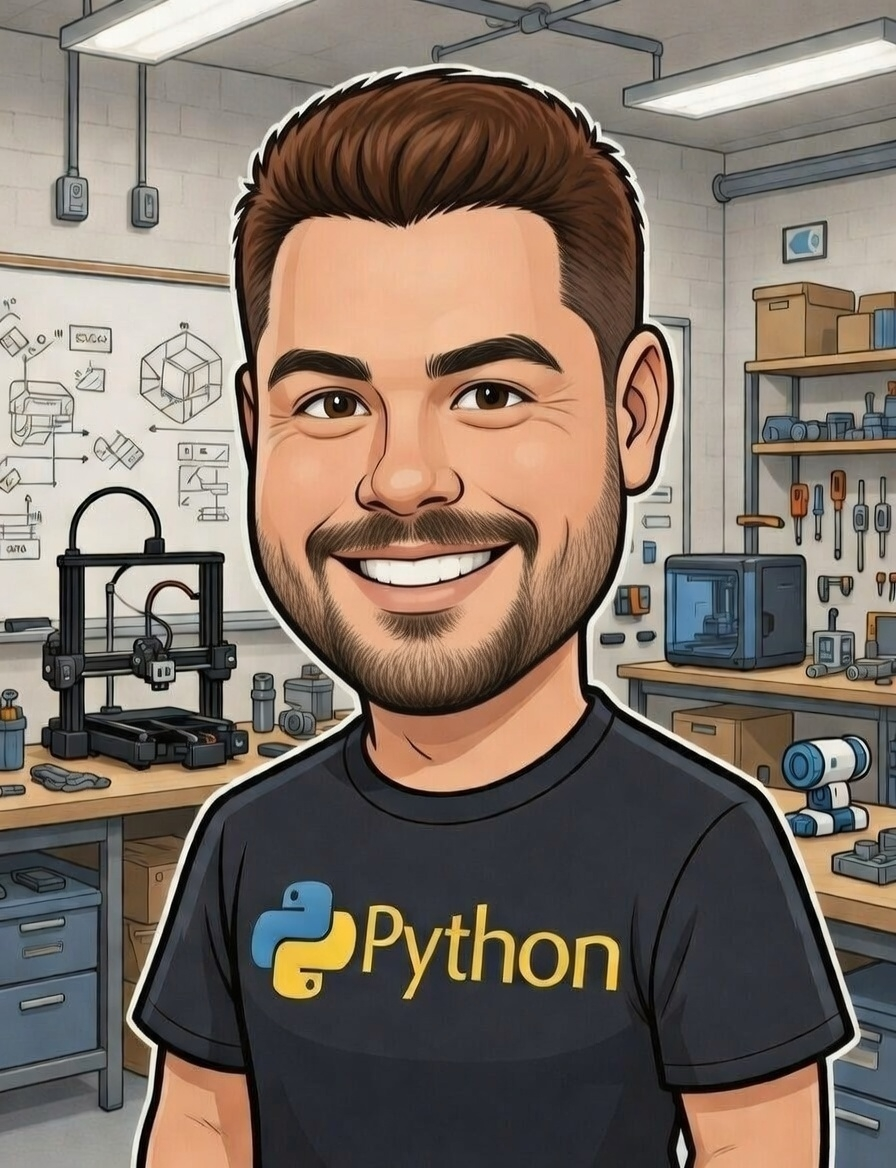
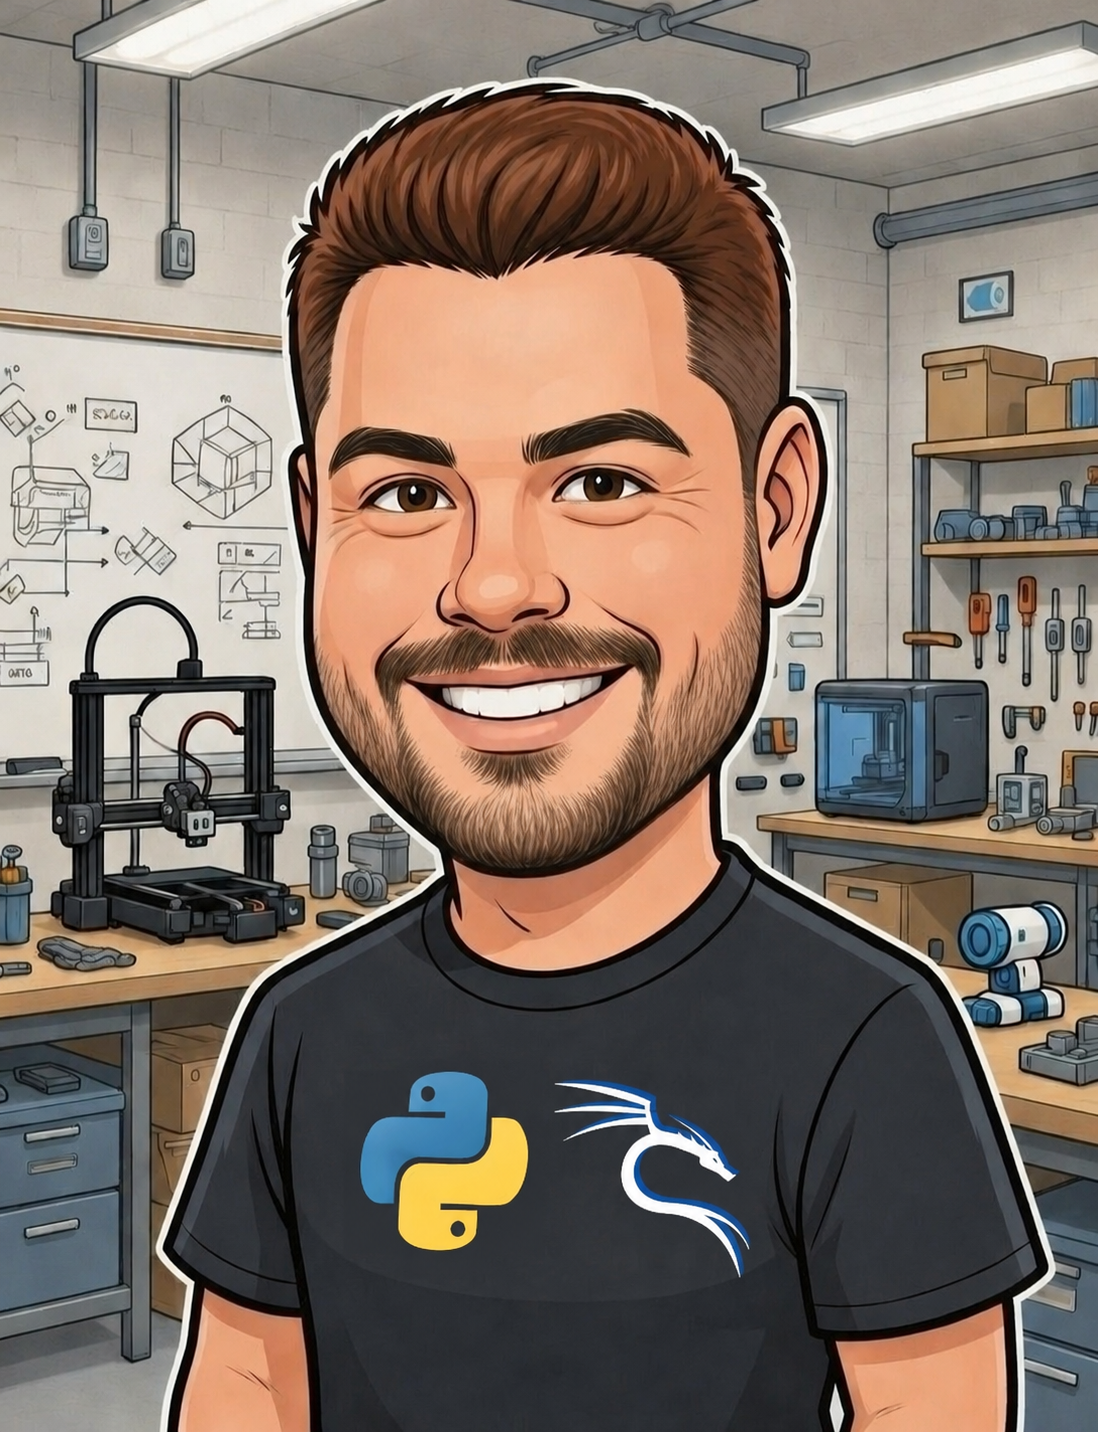
Restore section on reload, welcome curtain only on home load, update Sobre mí photo (1.2.41).

diff --git a/app.js b/app.js
@@ -82,11 +82,10 @@
 
   let welcomeRevealTimer = null;
   /**
-   * false = aún no se ha salido de INICIO en esta carga → cortina al (re)montar bienvenida.
-   * true = el usuario ya navegó a otra sección → al volver a INICIO el texto queda fijo.
-   * (Recarga / ventana nueva reinicia el flag; no se guarda en sessionStorage.)
+   * Solo true en la carga/recarga que aterriza en INICIO (ventana nueva o F5 en home).
+   * El botón INICIO y volver desde otras secciones NUNCA la activan.
    */
-  let welcomeRevealPlayed = false;
+  let welcomeCurtainOnNextHome = false;
 
   /** Detiene la animación de bienvenida (evita fugas al cambiar de vista). */
   function stopWelcomeAnimation() {
@@ -96,9 +95,9 @@
     }
   }
 
-  /** Al abandonar INICIO: las próximas visitas a home en esta carga no repiten la cortina. */
+  /** Al abandonar INICIO o al ir a home por menú: no repetir cortina. */
   function consumeWelcomeReveal() {
-    welcomeRevealPlayed = true;
+    welcomeCurtainOnNextHome = false;
     stopWelcomeAnimation();
   }
 
@@ -730,15 +729,16 @@
     const welcomeEl = tabPanelEl.querySelector(".welcome-copy");
     if (!welcomeEl) return;
 
-    // Tras haber salido a otra sección: texto fijo, sin cortina.
-    if (welcomeRevealPlayed) {
+    // Menú INICIO / reentrada: texto fijo. Cortina solo si el boot la autorizó.
+    if (!welcomeCurtainOnNextHome) {
       welcomeEl.classList.remove("welcome-enter");
       welcomeEl.classList.add("welcome-reveal");
       return;
     }
+    welcomeCurtainOnNextHome = false;
 
     welcomeEl.classList.remove("welcome-reveal", "welcome-enter");
-    // Forzar reflow para arrancar la transición (carga / recarga / ventana nueva).
+    // Forzar reflow para arrancar la transición (carga / recarga en INICIO).
     void welcomeEl.offsetWidth;
     welcomeEl.classList.add("welcome-enter");
 
@@ -1717,10 +1717,10 @@
     history.pushState(st, "", urlFromHistoryState(st));
   }
 
-  /** Tras cargar/recargar: una sola entrada INICIO; el historial interno crece al navegar. */
+  /** Alinea history.state + URL con la vista actual (sin forzar INICIO). */
   function seedAppHistory() {
-    const home = homeHistoryState();
-    history.replaceState(home, "", urlFromHistoryState(home));
+    const st = snapshotHistoryState();
+    history.replaceState(st, "", urlFromHistoryState(st));
   }
 
   function openDocenciaUnitFromIds(levelId, materialId, unitId, tabId = "") {
@@ -2301,7 +2301,7 @@
         <div class="about-section__layout">
           <div class="about-section__photo">
             <img
-              src="./image/yo.png"
+              src="./image/yo.png?v=${escapeHtml(String(window.MYWEB_ASSET_V || DATA.siteMeta?.version || "").trim())}"
               alt="Fotografía del autor del sitio"
               draggable="false"
               decoding="async"
@@ -4061,7 +4061,6 @@
     if (ver) siteVersionEl.textContent = ver.startsWith("v") ? ver : `v${ver}`;
   }
 
-  resetToHome();
   toggleContentCard(true);
   toggleDocenciaMenu(false);
   updateUpdatesIndicator({ nudge: false });
@@ -4088,6 +4087,7 @@
   if (homeBtnEl) {
     homeBtnEl.addEventListener("click", () => {
       setActiveMenu(homeBtnEl);
+      consumeWelcomeReveal();
       toggleDocenciaMenu(false);
       toggleContentCard(true);
       if (unitSearchEl) unitSearchEl.value = "";
@@ -4250,27 +4250,38 @@
     }
   });
 
-  // Carga/recarga: siempre INICIO y historial nuevo desde la portada (no restaurar sección previa).
+  // Carga/recarga: restaurar la sección de la URL (#hash) o del history.state.
   suppressHistoryPush = true;
   try {
-    currentState = {
-      ...currentState,
-      section: "home",
-      stageId: "",
-      levelId: "",
-      materialId: "",
-      unitId: "",
-      tabId: "",
-      miscId: "",
-      searchQuery: ""
-    };
+    const rawHash = String(location.hash || "").replace(/^#/, "");
+    const hasDeepLink = Boolean(rawHash && rawHash !== "home");
+    const hist = history.state && history.state.myweb === 1 ? history.state : null;
+
+    if (hasDeepLink) {
+      applyRouteFromLocationHash();
+    } else if (hist && hist.section && hist.section !== "home") {
+      restoreHistorySnapshot(hist);
+    } else {
+      welcomeCurtainOnNextHome = true;
+      currentState = {
+        ...currentState,
+        section: "home",
+        stageId: "",
+        levelId: "",
+        materialId: "",
+        unitId: "",
+        tabId: "",
+        miscId: "",
+        searchQuery: ""
+      };
       setActiveMenu(homeBtnEl);
-    toggleDocenciaMenu(false);
-    toggleContentCard(true);
-    if (unitSearchEl) unitSearchEl.value = "";
-    if (searchResultsEl) searchResultsEl.innerHTML = "";
-    resetToHome();
+      toggleDocenciaMenu(false);
+      toggleContentCard(true);
+      if (unitSearchEl) unitSearchEl.value = "";
+      if (searchResultsEl) searchResultsEl.innerHTML = "";
+      resetToHome();
       updateUpdatesIndicator({ nudge: true });
+    }
   } finally {
     suppressHistoryPush = false;
   }

diff --git a/privacidad.html b/privacidad.html
@@ -4,9 +4,9 @@
     <meta charset="utf-8" />
     <meta name="viewport" content="width=device-width, initial-scale=1" />
     <title>T·I·D·Ahub · Privacidad</title>
-    <link rel="stylesheet" href="./styles.css?v=1.2.40" />
+    <link rel="stylesheet" href="./styles.css?v=1.2.41" />
     <script>
-      window.MYWEB_ASSET_V = "1.2.40";
+      window.MYWEB_ASSET_V = "1.2.41";
     </script>
   </head>
   <body class="theme-light privacy-page">
@@ -200,7 +200,7 @@
       <div class="site-footer-inner">
         <div class="footer-meta">
           &copy; 2026-<span id="year-current">2026</span>&nbsp;| PhD.Eng. Francisco Carnero Rodríguez |
-          <span id="site-version">v1.2.40</span> |
+          <span id="site-version">v1.2.41</span> |
           <a href="./privacidad.html" class="footer-privacy-link">Privacidad y protección de datos</a>
         </div>
       </div>
@@ -217,7 +217,7 @@
           if (vEl && ver) vEl.textContent = ver.indexOf("v") === 0 ? ver : "v" + ver;
         };
         var data = document.createElement("script");
-        data.src = "./data.js?v=" + String(window.MYWEB_ASSET_V || "1.2.40");
+        data.src = "./data.js?v=" + String(window.MYWEB_ASSET_V || "1.2.41");
         data.onload = applyMeta;
         data.onerror = function () {
           console.error("No se pudo cargar data.js");

diff --git a/index.html b/index.html
@@ -4,9 +4,9 @@
     <meta charset="utf-8" />
     <meta name="viewport" content="width=device-width, initial-scale=1" />
     <title>T·I·D·Ahub</title>
-    <link rel="stylesheet" href="./styles.css?v=1.2.40" />
+    <link rel="stylesheet" href="./styles.css?v=1.2.41" />
     <script>
-      window.MYWEB_ASSET_V = "1.2.40";
+      window.MYWEB_ASSET_V = "1.2.41";
     </script>
   </head>
   <body class="theme-light">
@@ -221,7 +221,7 @@
         </a>
         <div class="footer-meta">
           &copy; 2026-<span id="year-current">2026</span>&nbsp;| PhD.Eng. Francisco Carnero Rodríguez |
-          <span id="site-version">v1.2.40</span> |
+          <span id="site-version">v1.2.41</span> |
           <a href="./privacidad.html" class="footer-privacy-link">Privacidad y protección de datos</a>
         </div>
       </div>
@@ -229,7 +229,7 @@
 
     <script>
       (function () {
-        var bust = String(window.MYWEB_ASSET_V || "1.2.40");
+        var bust = String(window.MYWEB_ASSET_V || "1.2.41");
         var data = document.createElement("script");
         data.src = "./data.js?v=" + bust;
         data.onload = function () {

diff --git a/data.js b/data.js
@@ -18,7 +18,7 @@ window.MYWEB_DATA = {
     El pie muestra "v" + version al cargar.
   */
   siteMeta: {
-    version: "1.2.40",
+    version: "1.2.41",
     updated: "2026-10-28",
   },
 

diff --git a/versions.md b/versions.md
@@ -376,6 +376,12 @@ Cambios publicados en `main` tras 1.0 y consolidados conceptualmente en la líne
 
 - Privacidad: más aire bajo cabecera; en AYUDA se anula el `gap` de `.help-form` para igualar título↔RGPD a `privacidad.html`.
 
+## 1.2.41
+
+- SOBRE MÍ: foto actualizada (`image/yo.png`).
+- Recarga del navegador: restaura la sección actual (hash / historial) en lugar de forzar INICIO.
+- Bienvenida: cortina solo al cargar/recargar INICIO; el botón INICIO ya no la repite.
+
 ---
 
 ## Convención (recordatorio)
@@ -474,3 +480,4 @@ Nota: **1.1.16** y **1.1.17** fueron bumps por contenido; a partir de la políti
 | **1.2.38** | INICIO: título alineado con otras secciones |
 | **1.2.39** | Privacidad: aire cabecera + gap RGPD = AYUDA |
 | **1.2.40** | Privacidad AYUDA: sin gap flex; más aire cabecera |
+| **1.2.41** | Foto SOBRE MÍ; restore al recargar; cortina solo en load |
